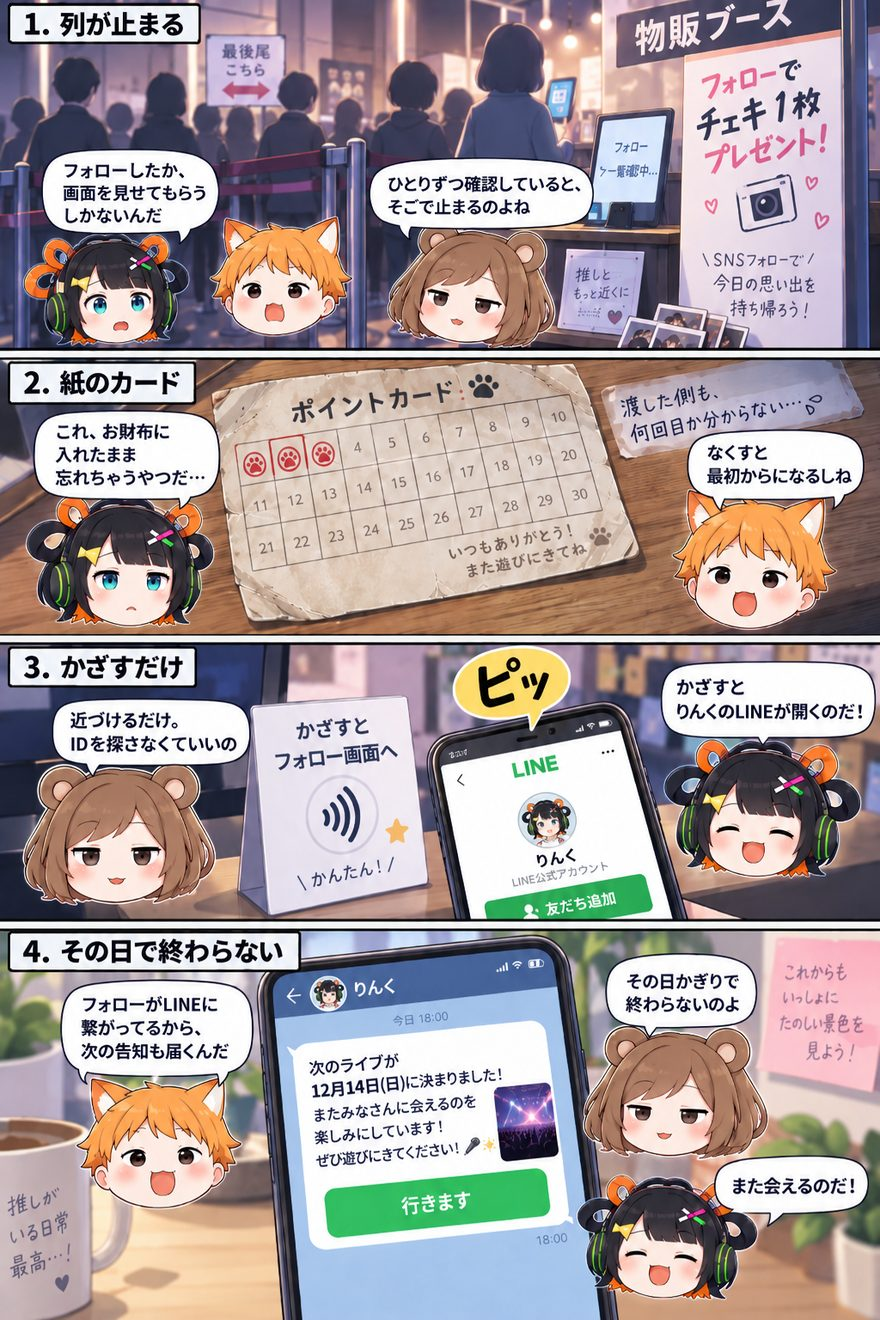
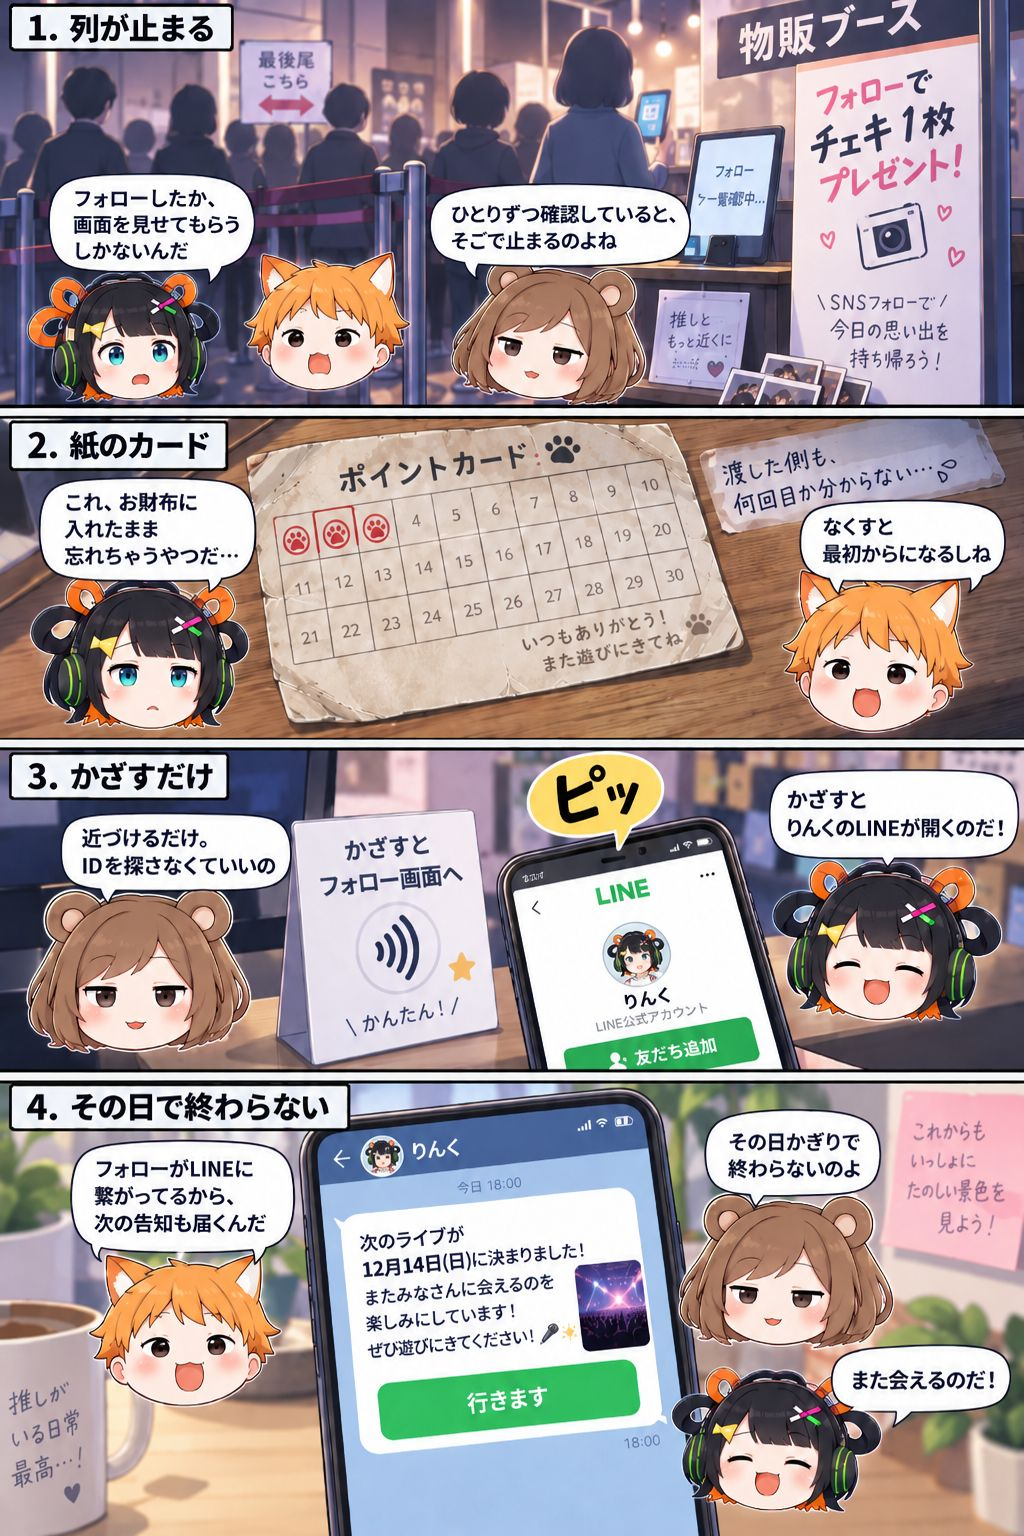
fix(lp): 漫画の幅を440px→620pxに。既存の型に合わせる
★見にくいとの指摘。原因は幅の判断ミス。

440pxにしたのは .genba（420px）の感覚で決めたためだが、
.genba は「小さな挿絵」用の型で、この漫画には合わない。
この漫画は4コマの中にスマホ画面や一覧表が入っていて情報密度が高く、
440pxだと元22pxの文字が11px相当まで潰れる（LP本文は13.5px）。

★既存の型を探さずに自分で幅を決めていたのが根本原因。
  talent LP には .demo-video = 620px という
  「しっかり見せたいもの」用の型が既にあった。それに合わせた。
  620pxなら15px相当になり、本文より大きい。

あわせて:
- 画像を再生成（880px固定→元解像度のまま最大1640px）。
  880pxは「440pxで表示する前提」で作ったが、その前提が誤りだった
- width/height 属性を実物の寸法に同期（縦横比のズレでレイアウトが跳ねるのを防ぐ）
- LP本編に埋めた1本目も同じ620pxに揃えた

画像は6枚で2.0MB（元12.7MB）。別ページ + loading="lazy" なので
LP本体の初回読み込みには影響しない。

diff --git a/apps/lp/talent/manga/index.html b/apps/lp/talent/manga/index.html
@@ -46,14 +46,18 @@
     background: var(--accent-strong); color: #fff; font-size: 13px; font-weight: 700;
     flex-shrink: 0;
   }
-  /* ★漫画は縦に長い。PCで幅いっぱいにすると画面を占有しすぎるので440pxに絞る。
-     （既存LPの図版も .talk-demo=560px / .genba=420px と用途別に絞ってある） */
+  /* ★幅は talent LP の .demo-video (620px) に合わせる。
+     最初 .genba (420px) の感覚で440pxにしたが、**読めなかった**。
+     この漫画は4コマの中にスマホ画面や一覧表が入っていて情報密度が高く、
+     440pxだと元22pxの文字が11px相当まで潰れる（実測）。
+     .genba は小さな挿絵用の型で、これには合わない。
+     620px なら 15px 相当になり、LP本文(13.5px)より大きい。 */
   .ep img {
-    display: block; width: 100%; max-width: 440px; margin: 0 auto;
+    display: block; width: 100%; max-width: 620px; margin: 0 auto;
     border: 1px solid var(--line); border-radius: 12px;
   }
   .cap {
-    max-width: 440px; margin: 10px auto 0;
+    max-width: 620px; margin: 10px auto 0;
     font-size: 13px; color: var(--muted); line-height: 1.8;
   }
   .cap b { color: var(--fg); }
@@ -99,7 +103,7 @@
     <!-- ① 掴み。相手の悩みそのものから入る -->
     <div class="ep">
       <div class="ep-head"><span class="ep-no">1</span><h2>告知が、届いていない</h2></div>
-      <img src="/talent/assets/manga/01-kokuchi.jpg" loading="lazy" width="880" height="1099"
+      <img src="/talent/assets/manga/01-kokuchi.jpg" loading="lazy" width="1122" height="1402"
         alt="1コマ目、ライブ会場の客席がまばら。りんく「Xで告知したのに、お客さん少ないのだ」こん太「投稿は3日前だよ。もう流れちゃってる」。2コマ目、Xのタイムラインで告知が下へ流れていく。たぬ姉「SNSはその時見てた人にしか届かないのよ」。3コマ目、LINEに11月23日の公演案内が届き、行きます・行けたら行きます・今回は難しそうの3つのボタンがある。たぬ姉「LINEなら、開くまで消えないわ」。4コマ目、事務所の画面に行きます42人、行けたら15人、今回は難しそう8人と表示。こん太「42人はほぼ来る人数だから、グッズもこれくらいで足りるね」">
       <p class="cap">
         <b>「行きます」と「行けたら」を分けて数える</b>ところまでが、いま動いています。
@@ -111,7 +115,7 @@
     <!-- ② 現場で目に見えて困っていること。共感が最も速い -->
     <div class="ep">
       <div class="ep-head"><span class="ep-no">2</span><h2>物販の列が、止まる</h2></div>
-      <img src="/talent/assets/manga/04-bussan.jpg" loading="lazy" width="880" height="1320"
+      <img src="/talent/assets/manga/04-bussan.jpg" loading="lazy" width="1024" height="1536"
         alt="1コマ目、物販ブースに長い列。フォローでチェキ1枚の貼り紙。こん太「フォローしたか、画面を見せてもらうしかないんだ」たぬ姉「ひとりずつ確認していると、そこで止まるのよね」。2コマ目、よれた紙のポイントカード。30マスのうち3つだけスタンプ。りんく「これ、お財布に入れたまま忘れちゃうやつだ」こん太「なくすと最初からになるしね」。3コマ目、かざすとフォロー画面へ、と書かれた立て札。スマホをかざすとりんくのLINE公式アカウントの友だち追加画面が開く。4コマ目、数日後のLINEに次のライブが12月14日に決まりましたという告知が届く。">
       <p class="cap">
         <b>かざすとフォロー画面が開く</b>カードです。フォロー済みかどうかを判定するものではありません。
@@ -123,7 +127,7 @@
     <!-- ③ 時計が動くので漫画向き -->
     <div class="ep">
       <div class="ep-head"><span class="ep-no">3</span><h2>深夜の1通が、翌朝まで待たない</h2></div>
-      <img src="/talent/assets/manga/02-shinya.jpg" loading="lazy" width="880" height="880"
+      <img src="/talent/assets/manga/02-shinya.jpg" loading="lazy" width="1254" height="1254"
         alt="1コマ目、深夜0時14分。ファンから今日のライブ最高でしたというメッセージ。こん太「ファンの人、こんな時間に送ってくれてるね」たぬ姉「スタッフはもう帰ってる時間よ」。2コマ目、翌朝9時30分。メッセージは未読のまま。9時間後の表示。たぬ姉「返事が翌日になると、熱は一度冷めるのよね」。3コマ目、0時15分に既読が付き返信が入っている。りんく「1分後に返せるのだ」。4コマ目、朝の事務所の画面に昨夜の対応12件と表示。">
       <p class="cap">
         1分後に返しているのは<b>自動応答</b>です。演者本人のふりはしません。
@@ -135,7 +139,7 @@
     <!-- ④ 情緒のピーク。読後感がいい -->
     <div class="ep">
       <div class="ep-head"><span class="ep-no">4</span><h2>何度も来てくれる方に、気づける</h2></div>
-      <img src="/talent/assets/manga/03-gokaime.jpg" loading="lazy" width="880" height="880"
+      <img src="/talent/assets/manga/03-gokaime.jpg" loading="lazy" width="1254" height="1254"
         alt="1コマ目、ライブハウスの入口に列。りんく「今日もたくさん来てくれたのだ」こん太「あの人、前も見た気がする、けど自信ないな」。2コマ目、3月5月7月9月11月の公演ポスターが並ぶ。たぬ姉「公演のたびに、お客さんは入れ替わるものね」りんく「顔と名前が、一致しないのだ」。3コマ目、参加者リストに参加5回目と表示され、3月から11月まですべて行きますの履歴。たぬ姉「覚えていなくても、記録は残るのよ」。4コマ目、LINEでいつも来てくださって今回で5回目ですねと伝え、ファンからえっ、覚えててくれたんですかと返信。">
       <p class="cap">
         <b>公演のたびにお客さまは入れ替わります。</b>覚えていられないのは当たり前で、
@@ -147,7 +151,7 @@
     <!-- ⑤ 運用・体制の話。感情は動かないが決め手になる -->
     <div class="ep">
       <div class="ep-head"><span class="ep-no">5</span><h2>この方だけ、応答を止められる</h2></div>
-      <img src="/talent/assets/manga/05-shuzai.jpg" loading="lazy" width="880" height="1099"
+      <img src="/talent/assets/manga/05-shuzai.jpg" loading="lazy" width="1122" height="1402"
         alt="1コマ目、LINEで物販は何時からですかという質問にりんくが答えている。2コマ目、実は取材のご依頼でご連絡しましたというメッセージが届く。こん太「これは僕らが出た方がいい」。3コマ目、事務所の問い合わせ一覧。3件のうち真ん中のメディアの方だけ自動応答停止中のバッジが付き、りんくに戻すボタンがある。上下のファンAさんとファンBさんはりんくが応対中のまま。4コマ目、担当スタッフが返信している。用が済んだらまたりんくに戻せます。">
       <p class="cap">
         LINE公式アカウントの標準機能では<b>アカウント全体でしか</b>切り替えられません。
@@ -161,7 +165,7 @@
          その不安に、最後に答える。 -->
     <div class="ep">
       <div class="ep-head"><span class="ep-no">6</span><h2>答えないことも、仕事</h2></div>
-      <img src="/talent/assets/manga/06-kotaenai.jpg" loading="lazy" width="880" height="880"
+      <img src="/talent/assets/manga/06-kotaenai.jpg" loading="lazy" width="1254" height="1254"
         alt="1コマ目、深夜1時52分。ファンから、最近ずっとしんどくて眠れなくて、というメッセージが届く。りんく「これは、わたしが答えることじゃないのだ」。2コマ目、りんくは短く、お話ししてくださってありがとうございます、担当の者からあらためてご連絡しますね、とだけ返す。たぬ姉「元気出して、なんて言わせないの」こん太「知ったかぶりで返すのが、一番こわいからね」。3コマ目、問い合わせ管理の画面。自動応答が停止中になり、要対応の赤い印が付いて一番上に上がっている。たぬ姉「朝いちばんに、これが見えるようになってるわ」。4コマ目、朝9時5分にスタッフが返信する。りんく「答えないことも、仕事なのだ」">
       <p class="cap">
         お仕事のご依頼・クレーム・体調や気持ちに関わるご相談は、<b>無理に応対せず人へ渡します</b>。

diff --git a/apps/lp/talent/index.html b/apps/lp/talent/index.html
@@ -413,9 +413,9 @@
          1.7倍になって既存の設計が崩れる。また3本目・5本目は本文と
          セリフが一致するため、同じ画面に2度出すと作りが雑に見える。
          1本目を選んだのは、本文とセリフが重複しない唯一の本だから。 -->
-    <div style="max-width:440px;margin:26px auto 0">
+    <div style="max-width:620px;margin:26px auto 0">
       <a href="/talent/manga/" style="display:block;text-decoration:none">
-        <img src="/talent/assets/manga/01-kokuchi.jpg" loading="lazy" width="880" height="1099"
+        <img src="/talent/assets/manga/01-kokuchi.jpg" loading="lazy" width="1122" height="1402"
           alt="4コマ漫画。SNSの告知は3日で流れてしまうが、LINEなら開くまで消えない。行きます42人、行けたら15人と分けて数えられる。"
           style="display:block;width:100%;border:1px solid var(--line);border-radius:12px">
       </a>
